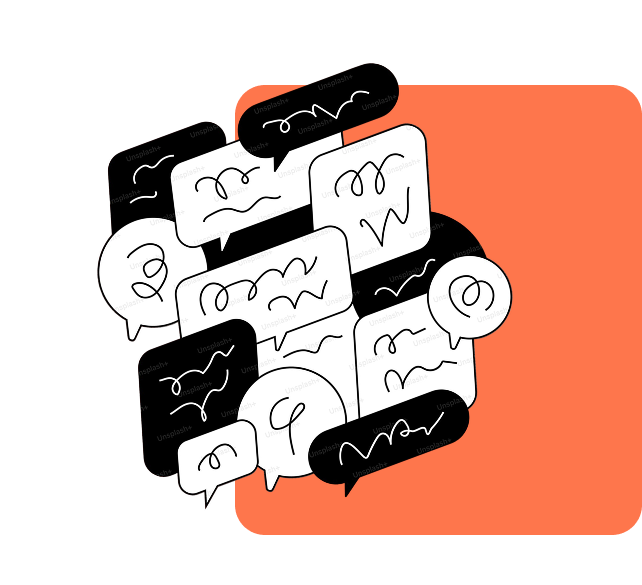
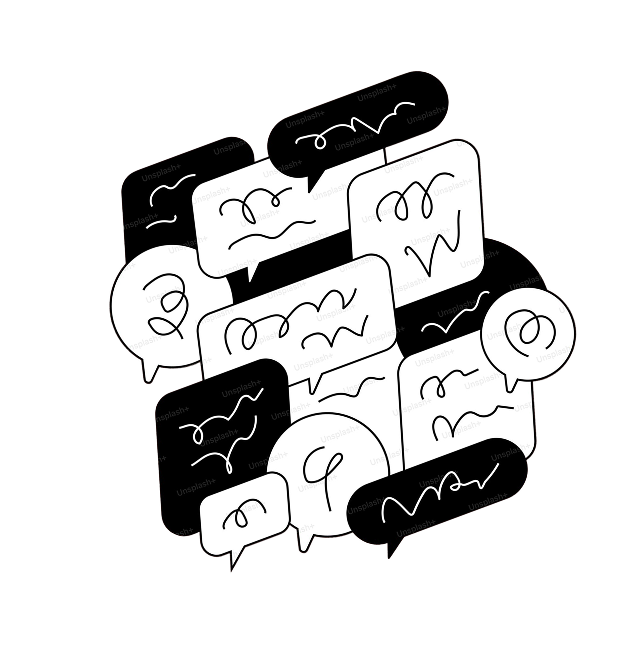
feat:com o minimo do chat

diff --git a/tccfront/src/TccFront.jsx b/tccfront/src/TccFront.jsx
@@ -1,25 +1,19 @@
-import Header from "./components/Header/Header"
-
+import { useState } from "react"
 import { BrowserRouter, Routes, Route } from 'react-router-dom'
 
-import InitialPage from "./pages/InitialPage/InitialPage"
-import FooterAssesment from "./components/FooterAssessment/FooterAssesment"
-import ComponentToggleContext from "./context/ComponentToggleContext"
-import LoginPage from "./pages/LoginPage/LoginPage.jsx"
-import RegisterPage from "./pages/RegisterPage/RegisterPage.jsx"
-import TrailPage from "./pages/TrailPage/TrailPage.jsx"
-import QuizPage from './pages/QuizPage/QuizPage.jsx'
-import HomePage from './pages/HomePage/HomePage.jsx'
-import AboutLeassonPage from './pages/AboutLeassonPage/AboutLeassonPage.jsx'
-import { useState } from "react"
-import Search from "./assets/img/searchIcon.png"
-import usePhotoMockData from "./hooks/UserMockHook/UserMockHook.js"
+import Header                  from "./components/Header/Header"
+import InitialPage             from "./pages/InitialPage/InitialPage"
+import FooterAssesment         from "./components/FooterAssessment/FooterAssesment"
+import ComponentToggleContext  from "./context/ComponentToggleContext"
+import LoginPage               from "./pages/LoginPage/LoginPage.jsx"
+import RegisterPage            from "./pages/RegisterPage/RegisterPage.jsx"
+import TrailPage               from "./pages/TrailPage/TrailPage.jsx"
+import QuizPage                from './pages/QuizPage/QuizPage.jsx'
+import HomePage                from './pages/HomePage/HomePage.jsx'
+import AboutLeassonPage        from './pages/AboutLeassonPage/AboutLeassonPage.jsx'
+import Search                  from "./assets/img/searchIcon.png"
+import usePhotoMockData        from "./hooks/UserMockHook/UserMockHook.js"
 import { MockUserDataContext } from "./context/MockUserDataContext/MockUserDataContext.jsx"
-
-
-
-
-
 
 function TccFront() {
   const {userPhoto} = usePhotoMockData()
@@ -27,9 +21,7 @@ function TccFront() {
   const [toggleUploadModal,setToggleUploadModal] = useState(false)
 
   return (
-
     <div>
-
 
       <BrowserRouter>
       <ComponentToggleContext.Provider value={{toggleComponent,setToggleComponent,toggleUploadModal,setToggleUploadModal}}>
@@ -53,14 +45,11 @@ function TccFront() {
         </main>
         </MockUserDataContext.Provider>
         </ComponentToggleContext.Provider>
-      </BrowserRouter>
-      
+      </BrowserRouter>      
     
-     {/*Caio:<- O Component Footer do projeto encontra-se em outros setores :)*/}
-      
+     {/*Caio:<- O Component Footer do projeto encontra-se em outros setores :)*/}      
 
     </div>
-
   )
 }
 

diff --git a/tccfront/src/components/TogheterInOurCommunity/TogheterInOurCommunity.jsx b/tccfront/src/components/TogheterInOurCommunity/TogheterInOurCommunity.jsx
@@ -2,17 +2,31 @@ import React from 'react'
 import ChatIconMessage from '../../assets/img/chat-icon-message.png'
 export default function TogheterInOurCommunity() {
   return (
-    <div className='flex w-full space-x-3 flex-wrap md:flex-nowrap  items-center justify-center '>
-     <div className='flex flex-col md:items-start justify-center items-center w-full '>
-        <p className='text-lg font-black'>Já Faz Parte da <span className='text-red-clean-type'>Nossa Comunidade?</span></p>
-        <p className=''></p>
-     </div>
-     <div className='flex flex-col    md:items-start '>
-        <div className=' w-full justify-center flex'>
-        <img src={ChatIconMessage} alt="" className='lg:w-[350px] md:w-[300px] w-[250px] h-[250px]' />
+    <div className='grid grid-cols-1 md:grid-cols-2 w-full space-x-3 justify-items-center'>
+
+      <div className='flex flex-col w-full mt-20'>
+        <p className='lg:text-2xl md:text-lg  font-black '>Já Faz Parte da <span className='text-red-clean-type'>Nossa Comunidade?</span></p>
+        <div className='w-full h-[2px] bg-red-clean-type '></div>
+
+        <div className='flex w-full  flex-col'>
+          <p className='text-xs font-light text-nowrap'>Só aqui você fica por dentro de tudo! você pode encontrar pessoas que</p>
+          <p className='text-xs font-light'>gostam</p>
+          <p className='text-xs font-light'>da mesma coisa que você, fazer novas amizades</p>
+          <p className='text-xs font-light'>e tinha duvídas frequentes ou Criar a sua propria Comunidade</p>
         </div>
 
-     </div>
+        <div className='w-full flex'></div>
+      </div>
+
+
+
+
+      <div className='flex flex-col w-[95%]   md:items-start '>
+        <div className=' w-full justify-center flex'>
+          <img src={ChatIconMessage} alt="" className='lg:w-full h-full' />
+        </div>
+
+      </div>
     </div>
   )
 }

diff --git a/tccfront/src/components/Header/Header.jsx b/tccfront/src/components/Header/Header.jsx
@@ -1,13 +1,12 @@
-import senaiLogo from '../../assets/img/senaiLogo.png'
-import MenuRed from '../../assets/img/MenuRed.svg'
-
-import SearchRed from '../../assets/img/SearchRed.svg'
-import Search from '../../assets/img/search-white.svg'
-import SearchBack from '../../assets/img/search-black.svg'
+import senaiLogo    from '../../assets/img/senaiLogo.png'
+import MenuRed      from '../../assets/img/MenuRed.svg'
+import SearchRed    from '../../assets/img/SearchRed.svg'
+import Search       from '../../assets/img/search-white.svg'
+import SearchBack   from '../../assets/img/search-black.svg'
 import alunoSupport from '../../assets/img/perfilPageIcon.png'
-import engenheiro from '../../assets/img/engenheiro.png'
+import engenheiro   from '../../assets/img/engenheiro.png'
 
-import { Link } from 'react-router-dom'
+import { Link }     from 'react-router-dom'
 import { useState } from 'react'
 
 export default function Header({withPhoto}) {

diff --git a/tccfront/src/pages/HomePage/HomePage.jsx b/tccfront/src/pages/HomePage/HomePage.jsx
@@ -24,7 +24,9 @@ export default function HomePage() {
           <MetricsAndAnalyticsSection bgActivitys={bgActivitys} bgAnalytics={bgAnalytics}/>
           <SectionOfTrails/>
           <ObtainPointsForAchiviments/>
-          {/* <TogheterInOurCommunity/> */}
+    
+          <TogheterInOurCommunity/>
+          
           
           </div>
         </main>
